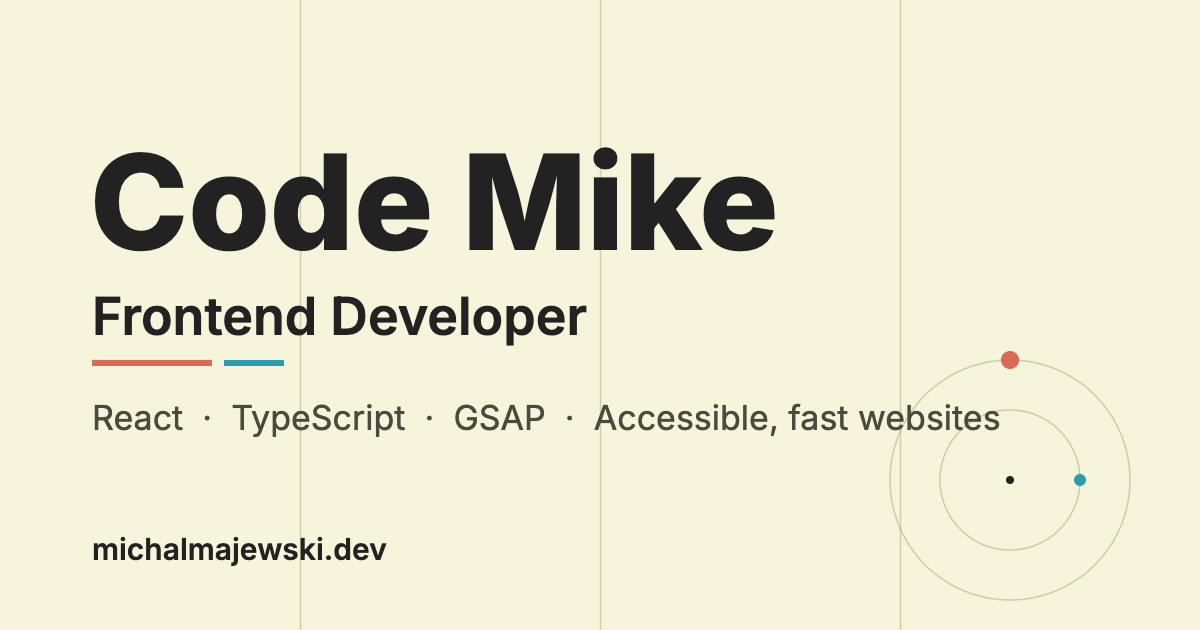
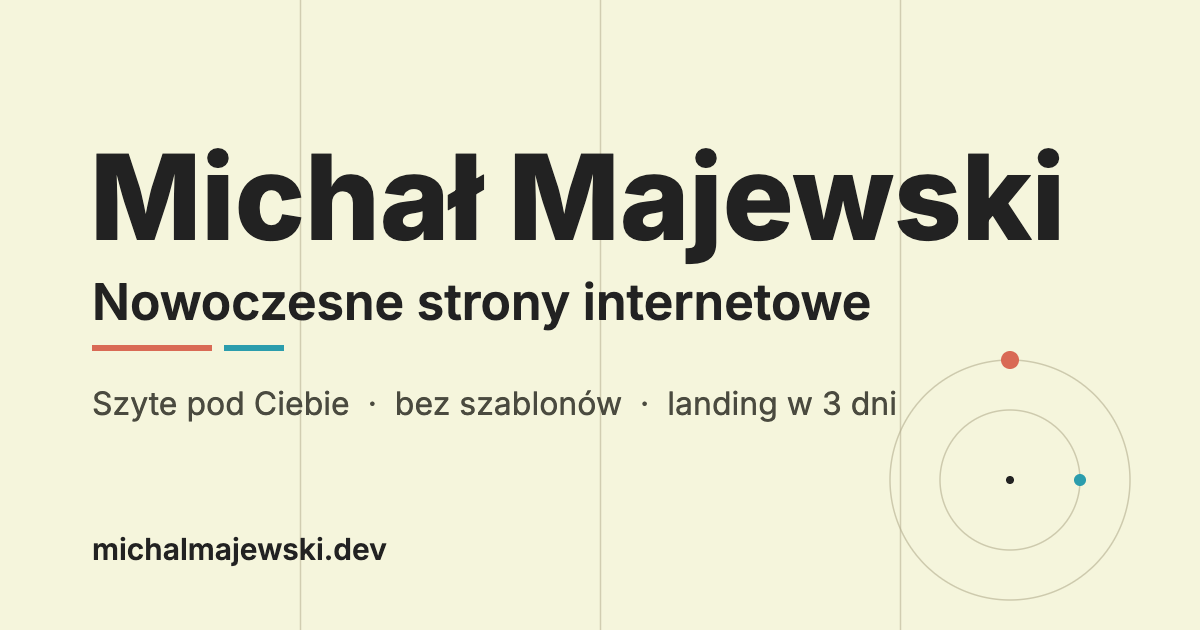
feat: rebrand Code Mike -> Michał Majewski + nowy hero (krok 1)
- 'Code Mike' usunięte wszędzie (title/OG/JSON-LD/llms/header/i18n/footer),
  Person.name = Michał Majewski, bez alternateName
- Hero: kicker 'Michał Majewski' + duży 3-liniowy nagłówek 'Nowoczesne strony
  internetowe szyte pod Ciebie' (ostatnia linia podkreślona teal) + subnagłówek
  (dla kogo + jak) + CTA 'Umów rozmowę' (Calendly) / 'Zobacz realizacje'
- orbita usunięta, nagłówek powiększony (7.5vw/6.5rem, weight 800)
- og-image przerobiony na Michał Majewski
- stała CALENDLY_URL

Changed region(s): [[0.0617, 0.2111, 0.8942, 0.4222], [0.0617, 0.4524, 0.8325, 0.6937]]

diff --git a/src/components/Hero/Hero.jsx b/src/components/Hero/Hero.jsx
@@ -3,27 +3,25 @@ import { useTranslation } from 'react-i18next';
 import './Hero.css';
 import Button from '../common/Button';
 import AnimatedHeadlinePart from '../common/AnimatedHeadlinePart';
+import { CALENDLY_URL } from '../../constants';
 
 export default function Hero() {
   const { t } = useTranslation();
+  const rawLines = t('hero.titleLines', { returnObjects: true });
+  const titleLines = Array.isArray(rawLines) ? rawLines : [];
   const [showSecond, setShowSecond] = useState(false);
-  const [showThird, setShowThird] = useState(false);
   const [showButtons, setShowButtons] = useState(false);
 
   useEffect(() => {
     const t1 = setTimeout(() => setShowSecond(true), 450);
-    // Start third line animation after the second one begins
-    const t2 = setTimeout(() => setShowThird(true), 850);
-    const t3 = setTimeout(() => setShowButtons(true), 1700);
+    const t2 = setTimeout(() => setShowButtons(true), 1200);
     return () => {
       clearTimeout(t1);
       clearTimeout(t2);
-      clearTimeout(t3);
     };
   }, []);
 
-
-   const scrollToSection = (sectionId) => {
+  const scrollToSection = (sectionId) => {
     const element = document.getElementById(sectionId);
     if (element) {
       element.scrollIntoView({ behavior: 'smooth' });
@@ -34,43 +32,48 @@ export default function Hero() {
     <section className="hero-section">
       <div className="hero-content-wrapper">
         <div className="hero-title-container hero-title-container--left">
-          {/* aria-label: czytniki dostają pełny tekst od razu, animacja liter jest czysto wizualna */}
+          <p className="hero-kicker">{t('hero.kicker')}</p>
+          {/* aria-label: czytniki dostają pełny tekst od razu, animacja liter jest czysto wizualna.
+              Ostatnia linia (np. "szyte pod Ciebie") podkreślona w kolorze morskim */}
           <h1
             className="hero-title hero-title--left"
-            aria-label={`${t('hero.line1')} — ${t('hero.line2')} ${t('hero.line3')}`}
+            aria-label={titleLines.join(' ')}
           >
-            <div aria-hidden="true"><AnimatedHeadlinePart text={t('hero.line1')} start={true} /></div>
-            <div aria-hidden="true"><AnimatedHeadlinePart text={t('hero.line2')} start={showSecond} /></div>
-            <div aria-hidden="true"><AnimatedHeadlinePart text={t('hero.line3')} start={showThird} /></div>
+            {titleLines.map((line, i) => (
+              <div
+                key={i}
+                aria-hidden="true"
+                className={i === titleLines.length - 1 ? 'hero-title-underline' : undefined}
+              >
+                <AnimatedHeadlinePart text={line} start={i === 0 ? true : showSecond} />
+              </div>
+            ))}
           </h1>
+          <p className="hero-subtitle">{t('hero.subtitle')}</p>
           <div className="hero-buttons hero-buttons--left">
             <Button
-              onClick={() => scrollToSection('private-projects')}
+              as="a"
+              href={CALENDLY_URL}
+              target="_blank"
+              rel="noopener noreferrer"
               variant="primary"
               className={`hero-btn-fade ${showButtons ? 'hero-btn--visible' : ''}`}
               tabIndex={showButtons ? 0 : -1}
               aria-hidden={!showButtons}
             >
-              {t('hero.projects')}
+              {t('hero.ctaCall')}
             </Button>
-            <Button 
-              onClick={() => scrollToSection('contact')} 
-              variant="secondary" 
-              className={`hero-btn-fade ${showButtons ? 'hero-btn--visible' : ''}`} tabIndex={showButtons ? 0 : -1} aria-hidden={!showButtons}
+            <Button
+              as="button"
+              type="button"
+              onClick={() => scrollToSection('private-projects')}
+              variant="secondary"
+              className={`hero-btn-fade ${showButtons ? 'hero-btn--visible' : ''}`}
+              tabIndex={showButtons ? 0 : -1}
+              aria-hidden={!showButtons}
             >
-              {t('hero.contact')}
+              {t('hero.ctaWork')}
             </Button>
-          </div>
-          {/* Orbitujące punkty: desktop — absolutnie, środek na linii gridu 75vw,
-              mobile — w przepływie, wyśrodkowane pod przyciskami */}
-          <div className="hero-orbit" aria-hidden="true">
-            <span className="hero-orbit-ring hero-orbit-ring--outer">
-              <span className="hero-orbit-dot hero-orbit-dot--coral"></span>
-            </span>
-            <span className="hero-orbit-ring hero-orbit-ring--inner">
-              <span className="hero-orbit-dot hero-orbit-dot--teal"></span>
-            </span>
-            <span className="hero-orbit-core"></span>
           </div>
         </div>
       </div>

diff --git a/public/index.html b/public/index.html
@@ -10,14 +10,14 @@
   <%= htmlWebpackPlugin.options.cspMeta %>
 
   <!-- Primary SEO -->
-  <title>Code Mike — Frontend Developer | React &amp; TypeScript</title>
+  <title>Michał Majewski — Nowoczesne strony internetowe</title>
   <meta
     name="description"
-    content="Portfolio of Code Mike (Michał) — frontend developer building fast, accessible websites with React, TypeScript and GSAP. See selected client work and get in touch."
+    content="Michał Majewski — frontend developer building fast, accessible websites with React, TypeScript and GSAP. See selected client work and get in touch."
   />
   <meta name="keywords" content="frontend developer, React developer, TypeScript developer, GSAP animations, accessible websites, Core Web Vitals, freelance frontend developer Poland, web developer Katowice, web developer Warsaw, web developer Wrocław, web developer Kraków, web developer Gdańsk, JavaScript developer, web performance optimization" />
   <meta name="robots" content="index, follow, max-snippet:-1, max-image-preview:large, max-video-preview:-1" />
-  <meta name="author" content="Code Mike (Michał)" />
+  <meta name="author" content="Michał Majewski" />
   <meta name="geo.region" content="PL" />
   <meta name="geo.placename" content="Polska" />
   <link rel="canonical" href="https://michalmajewski.dev/" />
@@ -28,20 +28,20 @@
   <!-- Open Graph -->
   <meta property="og:type" content="website" />
   <meta property="og:url" content="https://michalmajewski.dev/" />
-  <meta property="og:title" content="Code Mike — Frontend Developer | React &amp; TypeScript" />
+  <meta property="og:title" content="Michał Majewski — Nowoczesne strony internetowe" />
   <meta property="og:description" content="Frontend developer building fast, accessible websites with React, TypeScript and GSAP." />
   <meta property="og:image" content="https://michalmajewski.dev/og-image.png" />
   <meta property="og:image:width" content="1200" />
   <meta property="og:image:height" content="630" />
-  <meta property="og:image:alt" content="Code Mike — Frontend Developer portfolio" />
+  <meta property="og:image:alt" content="Michał Majewski — strony internetowe" />
   <meta property="og:locale" content="en_US" />
   <meta property="og:locale:alternate" content="pl_PL" />
-  <meta property="og:site_name" content="Code Mike Portfolio" />
+  <meta property="og:site_name" content="Michał Majewski" />
 
   <!-- Twitter Card -->
   <meta name="twitter:card" content="summary_large_image" />
   <meta name="twitter:url" content="https://michalmajewski.dev/" />
-  <meta name="twitter:title" content="Code Mike — Frontend Developer | React &amp; TypeScript" />
+  <meta name="twitter:title" content="Michał Majewski — Nowoczesne strony internetowe" />
   <meta name="twitter:description" content="Frontend developer building fast, accessible websites with React, TypeScript and GSAP." />
   <meta name="twitter:image" content="https://michalmajewski.dev/og-image.png" />
 
@@ -66,8 +66,7 @@
       "@context": "https://schema.org",
       "@type": "Person",
       "@id": "https://michalmajewski.dev/#person",
-      "name": "Michał",
-      "alternateName": "Code Mike",
+      "name": "Michał Majewski",
       "jobTitle": "Frontend Developer",
       "description": "Frontend developer building fast, accessible websites with React, TypeScript and GSAP. Working with clients across Poland — Katowice, Warszawa, Wrocław, Kraków, Gdańsk — and remotely.",
       "url": "https://michalmajewski.dev/",
@@ -89,7 +88,7 @@
       "@context": "https://schema.org",
       "@type": "WebSite",
       "@id": "https://michalmajewski.dev/#website",
-      "name": "Code Mike Portfolio",
+      "name": "Michał Majewski",
       "url": "https://michalmajewski.dev/",
       "inLanguage": ["pl", "en"],
       "publisher": { "@id": "https://michalmajewski.dev/#person" }
@@ -104,7 +103,7 @@
       "areaServed": { "@type": "Country", "name": "Polska" },
       "hasOfferCatalog": {
         "@type": "OfferCatalog",
-        "name": "Code Mike — services",
+        "name": "Michał Majewski — usługi",
         "itemListElement": [
           {
             "@type": "Offer",

diff --git a/src/components/Hero/Hero.css b/src/components/Hero/Hero.css
@@ -74,16 +74,23 @@
   height: 100%;
 }
 
-.hero-title {
-  /* Mniejszy niż wcześniej (było 8vw/6.75rem): dłuższa linia PL "Nowoczesne
-     strony" nachodziła na orbitę przy 75vw. Ten rozmiar utrzymuje nagłówek
-     na lewo od orbity na całym zakresie desktopu (>900px). */
-  font-size: clamp(3rem, 5.4vw, 5rem);
+/* Kicker — imię/marka nad głównym nagłówkiem */
+.hero-kicker {
+  margin: 0 0 0.75rem 0;
+  font-size: clamp(0.95rem, 1.4vw, 1.15rem);
   font-weight: 600;
-  font-stretch: 85%;
+  letter-spacing: 0.12em;
+  text-transform: uppercase;
+  color: var(--color-teal-ink);
+}
+
+.hero-title {
+  /* Duży, przyciągający uwagę — orbita usunięta, więc nagłówek może rosnąć */
+  font-size: clamp(3rem, 7.5vw, 6.5rem);
+  font-weight: 800;
   color: var(--color-ink);
-  letter-spacing: -0.01em;
-  line-height: 1.1;
+  letter-spacing: -0.02em;
+  line-height: 1.05;
   display: flex;
   flex-direction: column;
   justify-content: flex-start;
@@ -93,10 +100,29 @@
   text-align: left;
   word-break: keep-all;
   overflow-wrap: normal;
+  margin: 0;
+}
+
+/* Druga linia — "szyte pod Ciebie" — podkreślona w kolorze morskim */
+.hero-title-underline {
+  text-decoration: underline;
+  text-decoration-color: var(--color-teal);
+  text-decoration-thickness: 0.09em;
+  text-underline-offset: 0.12em;
+}
+
+/* Subnagłówek — doprecyzowuje dla kogo i jak */
+.hero-subtitle {
+  margin: 1.5rem 0 0 0;
+  max-width: 46ch;
+  font-size: clamp(1.05rem, 1.6vw, 1.35rem);
+  font-weight: 400;
+  line-height: 1.55;
+  color: #4a4738;
 }
 
 .hero-title--left {
-  margin-top: 20px;
+  margin-top: 12px;
 }
 
 .hero-title-part {
@@ -127,10 +153,11 @@
 
 .hero-buttons.hero-buttons--left {
   display: flex;
-  gap: 2rem;
+  flex-wrap: wrap;
+  gap: 1.25rem;
   align-items: flex-start;
   justify-content: flex-start;
-  margin-left: 2.5rem;
+  margin-top: 2.25rem;
 }
 
 .hero-btn-fade {
@@ -226,102 +253,3 @@
     
   }
 } */
-/* --- Hero orbit — subtelny element techniczny po prawej stronie --- */
-
-.hero-section {
-  position: relative;
-}
-
-.hero-orbit {
-  position: absolute;
-  top: 50%;
-  /* Środek animacji dokładnie na linii gridu strony (75vw) */
-  left: 75vw;
-  width: 230px;
-  height: 230px;
-  transform: translate(-50%, -50%);
-  pointer-events: none;
-  z-index: 0;
-}
-
-.hero-orbit-ring {
-  position: absolute;
-  top: 50%;
-  left: 50%;
-  border: 1px solid var(--color-grid);
-  border-radius: 50%;
-  opacity: 0.8;
-}
-
-.hero-orbit-ring--outer {
-  width: 230px;
-  height: 230px;
-  margin: -115px 0 0 -115px;
-  animation: hero-orbit-spin 14s linear infinite;
-}
-
-.hero-orbit-ring--inner {
-  width: 132px;
-  height: 132px;
-  margin: -66px 0 0 -66px;
-  animation: hero-orbit-spin 9s linear infinite reverse;
-}
-
-.hero-orbit-dot {
-  position: absolute;
-  left: 50%;
-  border-radius: 50%;
-}
-
-/* Kropki w różnych rozmiarach */
-.hero-orbit-dot--coral {
-  top: -7px;
-  width: 14px;
-  height: 14px;
-  margin-left: -7px;
-  background: var(--color-coral);
-}
-
-.hero-orbit-dot--teal {
-  top: -4px;
-  width: 8px;
-  height: 8px;
-  margin-left: -4px;
-  background: var(--color-teal);
-}
-
-.hero-orbit-core {
-  position: absolute;
-  top: 50%;
-  left: 50%;
-  width: 6px;
-  height: 6px;
-  margin: -3px 0 0 -3px;
-  border-radius: 50%;
-  background: var(--color-ink);
-}
-
-@keyframes hero-orbit-spin {
-  to {
-    transform: rotate(360deg);
-  }
-}
-
-@media (prefers-reduced-motion: reduce) {
-  .hero-orbit-ring--outer,
-  .hero-orbit-ring--inner {
-    animation: none;
-  }
-}
-
-@media (max-width: 900px) {
-  /* Orbita w przepływie dokumentu — pod przyciskami, wyśrodkowana (linia gridu 50vw).
-     position: relative (nie static), bo pierścienie pozycjonują się względem niej */
-  .hero-orbit {
-    position: relative;
-    top: auto;
-    left: auto;
-    transform: none;
-    margin: auto;
-  }
-}

diff --git a/src/i18n/__tests__/i18n.test.js b/src/i18n/__tests__/i18n.test.js
@@ -23,14 +23,14 @@ describe('i18n', () => {
   });
 
   test('serves English strings by default', () => {
-    expect(i18n.t('hero.line2')).toBe('Modern Web');
+    expect(i18n.t('hero.ctaWork')).toBe('See work');
     expect(i18n.t('work.title')).toBe('Every project is built around the client');
   });
 
   test('switches to Polish via changeLanguage', async () => {
     await i18n.changeLanguage('pl');
     expect(i18n.resolvedLanguage).toBe('pl');
-    expect(i18n.t('hero.line2')).toBe('Nowoczesne strony');
+    expect(i18n.t('hero.ctaWork')).toBe('Zobacz realizacje');
     expect(i18n.t('work.title')).toBe('Każdy projekt powstaje z myślą o kliencie');
   });
 

diff --git a/src/components/Header/Header.jsx b/src/components/Header/Header.jsx
@@ -92,7 +92,7 @@ const Header = () => {
             aria-label={t('header.logoAria')}
             className="header__logo-button"
           >
-            Code Mike
+            Michał Majewski
           </a>
         </div>
         <ul className="header__menu" onClick={handleLinkClick}>

diff --git a/src/constants.js b/src/constants.js
@@ -1,0 +1,2 @@
+// Wspólne stałe używane w kilku miejscach (hero CTA, final CTA)
+export const CALENDLY_URL = 'https://calendly.com/m-majewski-dm/30min';
